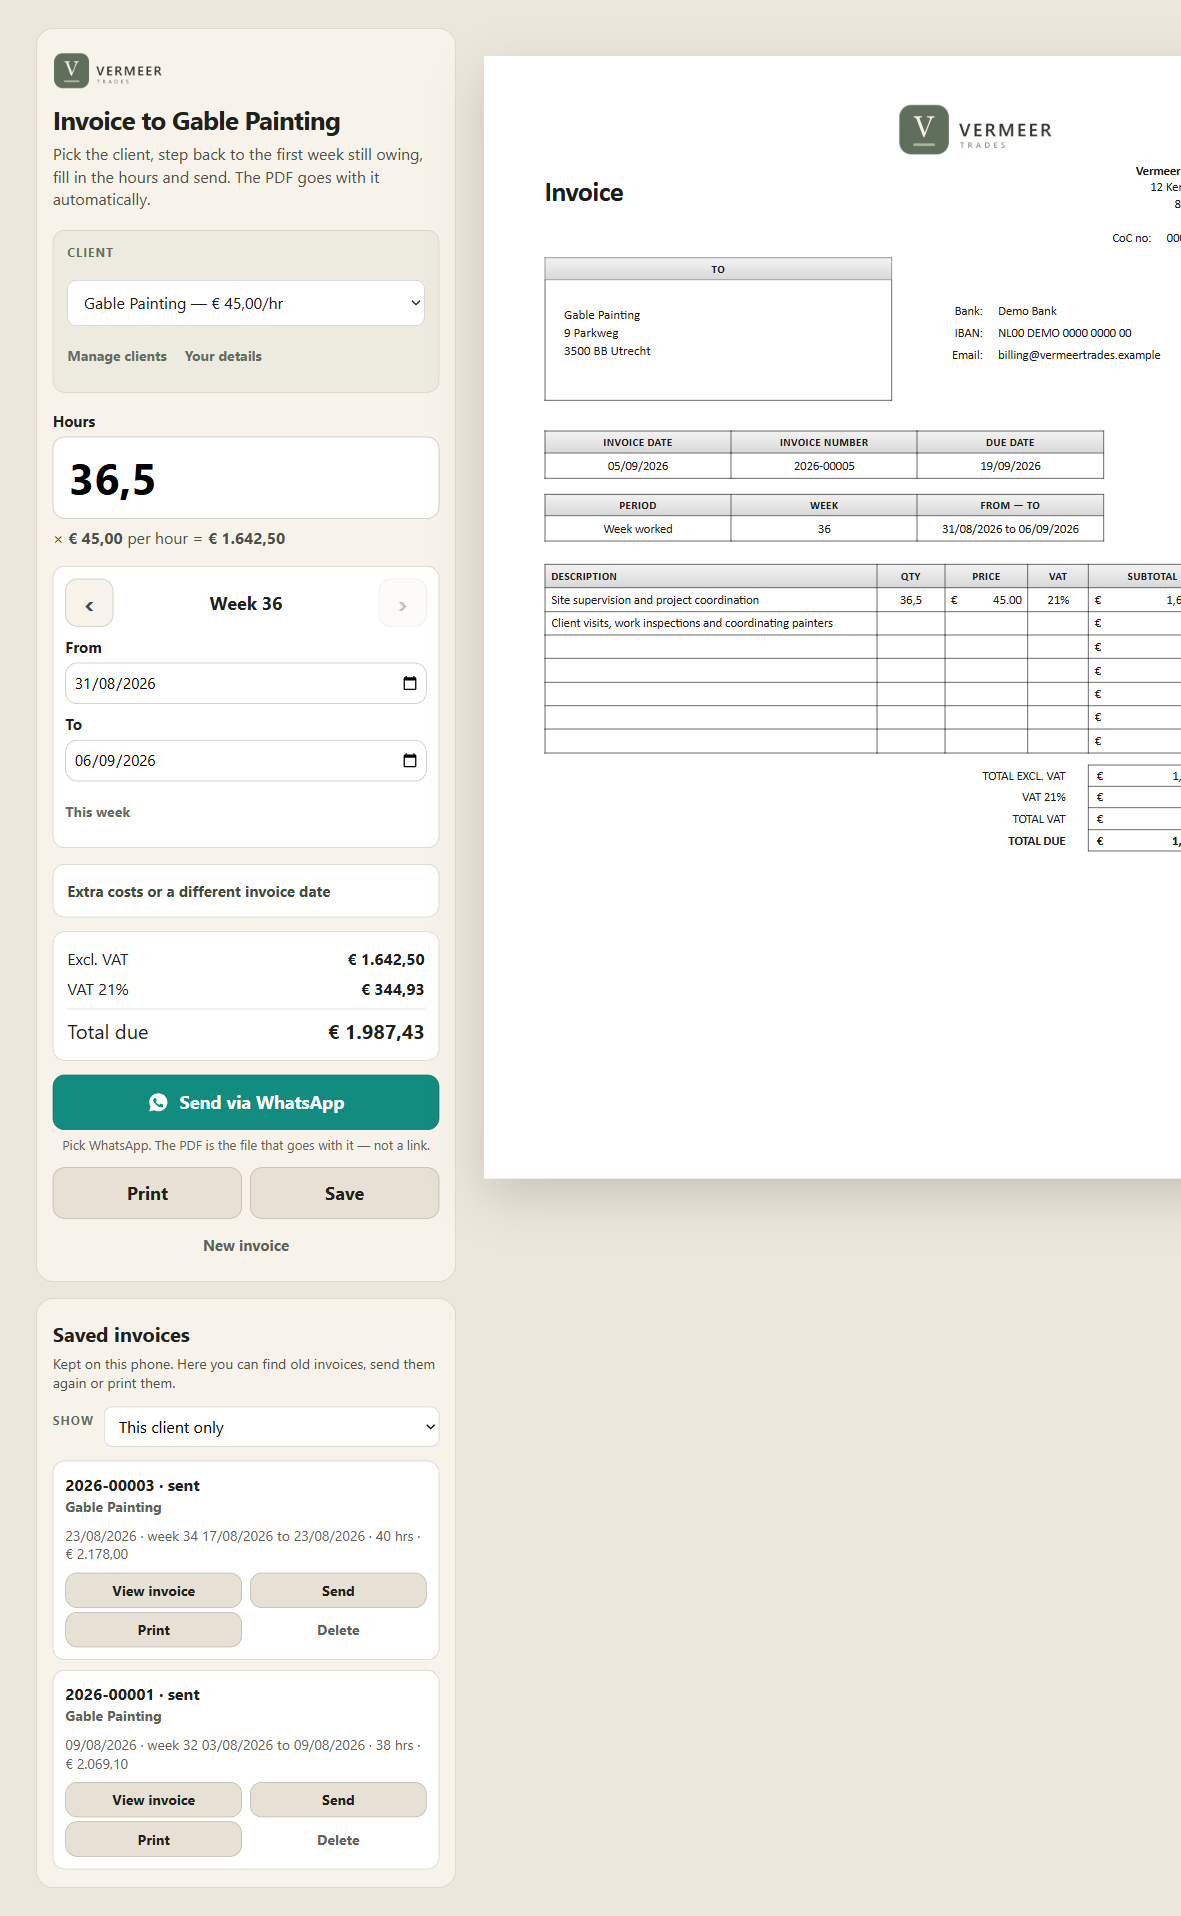
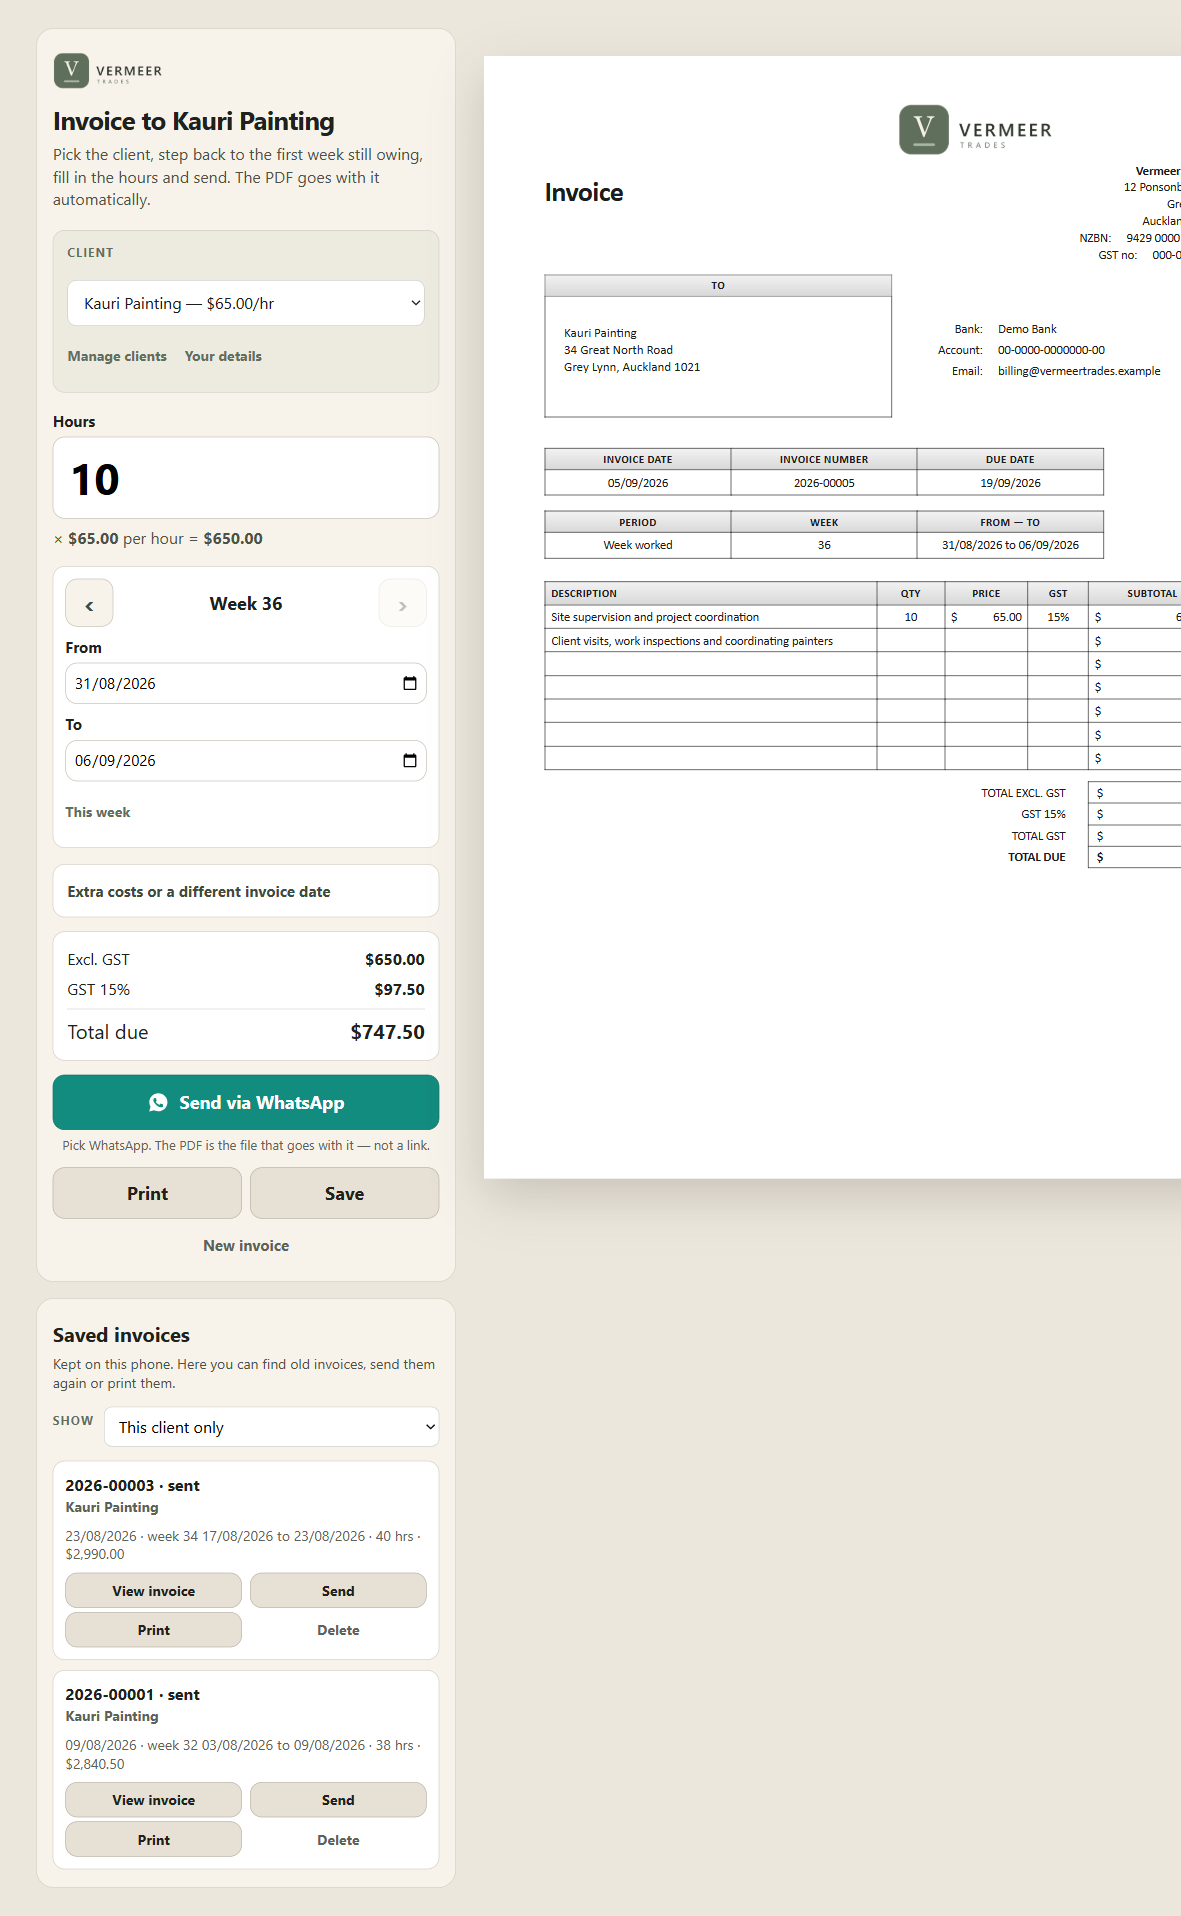
Localise the invoice demo for New Zealand
The demo was a straight translation of a Dutch app, so it showed euros,
21% btw, an IBAN and a Chamber of Commerce number to an audience that is
mostly in Auckland.

- NZD and en-NZ formatting, which also fixes an inconsistency where the
  summary read "€ 1.642,50" while the invoice sheet read "1,642.50"
- GST at 15% throughout, replacing VAT at 21%
- NZBN and a GST number in place of the Dutch CoC number, and a NZ bank
  account number in place of the IBAN
- invented Auckland and Christchurch clients at realistic trade rates
- storage keys and the IndexedDB name bumped so euro-era rows cannot
  survive into the localised build

Claude-Session: https://claude.ai/code/session_0131j1k8yyYzUwX2rNnvaCFy

diff --git a/work/aplus-factuur.html b/work/aplus-factuur.html
@@ -44,9 +44,9 @@
     Open the demo <span>&#8599;</span>
   </a>
   <p class="live-note">
-    An anonymised build of the same app — invented client, invented bank details,
-    English instead of Dutch. Add a client, change your own details, send yourself
-    an invoice. Nothing leaves your browser.
+    An anonymised build of the same app, localised for New Zealand — NZD, GST,
+    invented Auckland clients and a non-routable bank account. Add a client,
+    change your own details, send yourself an invoice. Nothing leaves your browser.
   </p>
 </header>
 
